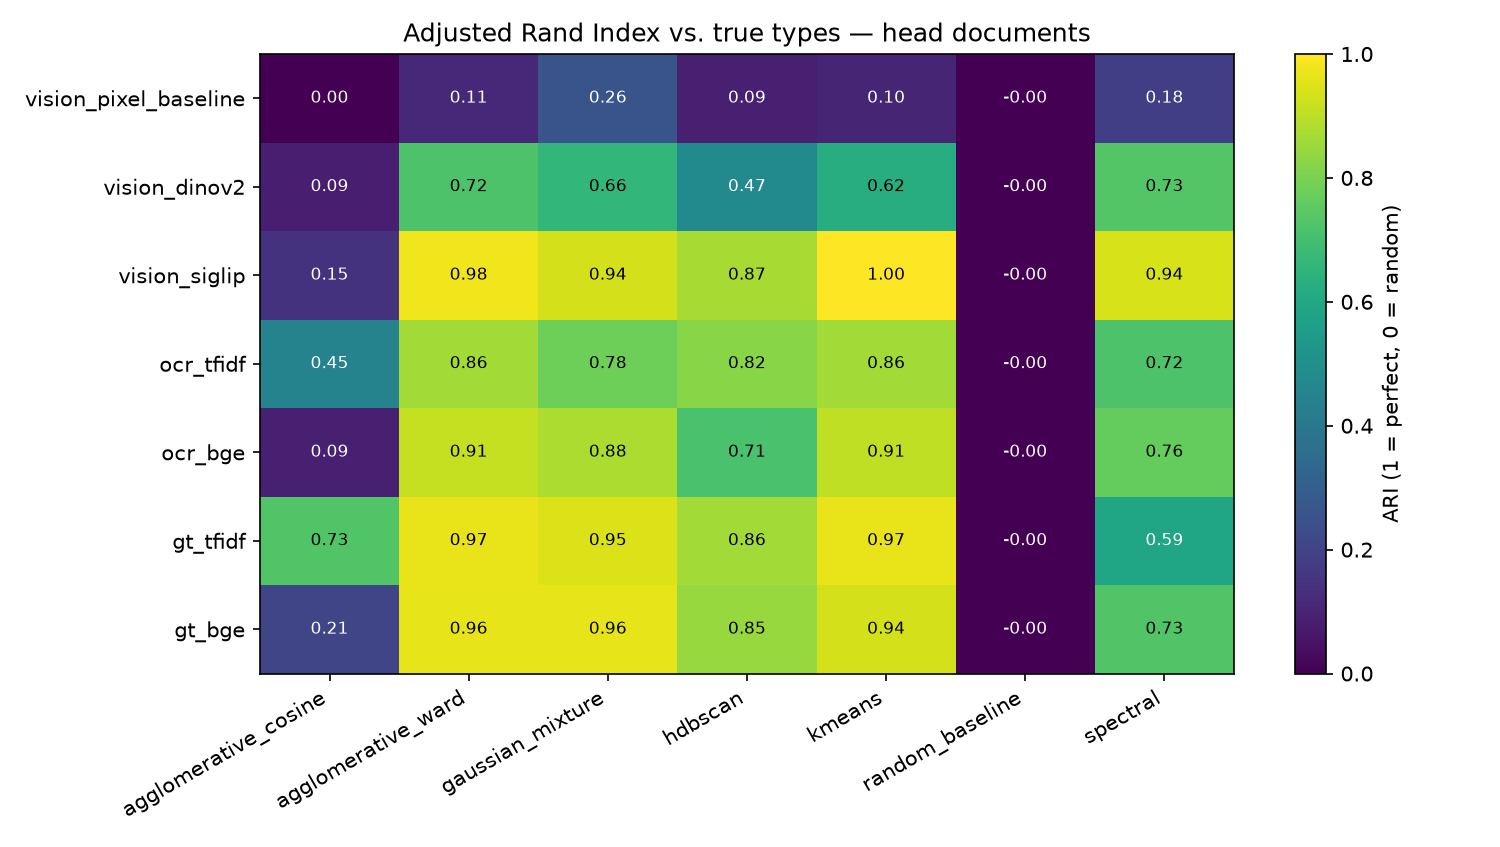
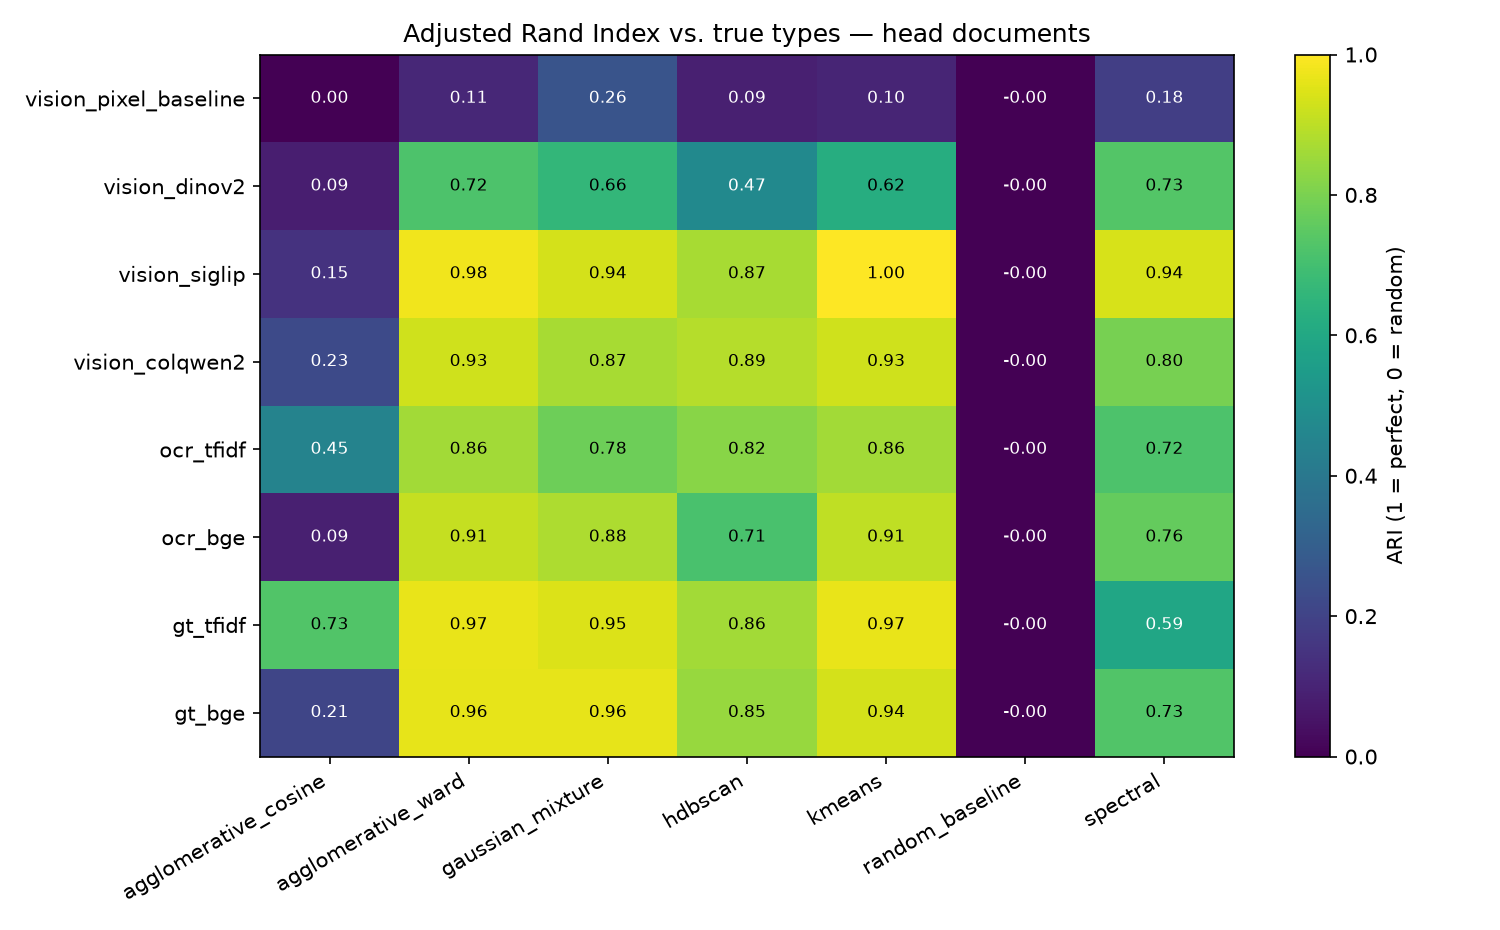
Add ColQwen2 results to the embedding comparison
ColQwen2 (mean-pooled) reaches ARI 0.93 on 18 types (SigLIP 1.00, OCR+bge
0.91), has the highest true-label silhouette of any channel (0.62), and,
like the OCR text channel, flags none of the 4 in-scope legal photos.
Updated docs/embedding_comparison.md and the recommendation for issue #6.

diff --git a/docs/embedding_comparison.md b/docs/embedding_comparison.md
@@ -18,7 +18,7 @@ python -m analysis.out_of_scope        # results/out_of_scope_*.csv
 | `vision_pixel_baseline` | vision | 32×32 grayscale thumbnail. No model; sets the floor |
 | `vision_dinov2` | vision | `facebook/dinov2-large`, CLS token |
 | `vision_siglip` | vision | `google/siglip-so400m-patch14-384`, pooled embedding (the vision tower of ColPali) |
-| `vision_colqwen2` | vision | `vidore/colqwen2-v1.0-hf`, mean of patch vectors. **Results pending; see below** |
+| `vision_colqwen2` | vision | `vidore/colqwen2-v1.0-hf`, mean of patch vectors (a document-retrieval model that reads text in the image) |
 | `ocr_tfidf`, `ocr_bge` | OCR text | Tesseract text, then TF-IDF/SVD or `BAAI/bge-base-en-v1.5` |
 | `gt_tfidf`, `gt_bge` | clean text | The same encoders on the ground-truth transcription. An upper bound, not available in production |
 
@@ -32,7 +32,8 @@ Adjusted Rand Index (ARI) against the true type, all 925 head-class documents (1
 |---|---|---|---|---|---|---|
 | Pixel baseline | 0.10 | 0.11 | 0.26 | 0.18 | 0.09 | 0.00 |
 | DINOv2 | 0.62 | 0.72 | 0.66 | 0.73 | 0.47 | 0.09 |
-| **SigLIP** | **1.00** | **0.98** | 0.94 | **0.94** | **0.87** | 0.15 |
+| **SigLIP** | **1.00** | **0.98** | 0.94 | **0.94** | 0.87 | 0.15 |
+| ColQwen2 | 0.93 | 0.93 | 0.87 | 0.80 | **0.89** | 0.23 |
 | OCR + TF-IDF | 0.86 | 0.86 | 0.78 | 0.72 | 0.82 | 0.45 |
 | OCR + bge | 0.91 | 0.91 | 0.88 | 0.76 | 0.71 | 0.09 |
 | Clean text + TF-IDF | 0.97 | 0.97 | 0.95 | 0.59 | 0.86 | 0.73 |
@@ -45,10 +46,10 @@ Random baseline (20 seeds): ARI 0.00 everywhere.
 **On the 5 legal types only** (264 documents), every learned channel reaches ARI 0.98–1.00 with k-means, and the pixel baseline gets 0.33. The legal types in this benchmark each follow one template, so they're too easy to rank channels on. That's why the 18-type result is the one to use for the vision-vs-text decision. See `results/figures/clustering_ari_legal.png` and `results/figures/tsne_legal.png`.
 
 **What this means:**
-- **Vision beats OCR text when the vision model is right.** SigLIP + k-means scores 1.00 vs. 0.91 for OCR + bge. DINOv2, a vision model trained without text, scores only 0.62, below both text channels.
+- **Vision beats OCR text when the vision model is right.** SigLIP + k-means scores 1.00 and ColQwen2 0.93, vs. 0.91 for OCR + bge. DINOv2, a vision model trained without text, scores only 0.62, below both text channels.
 - **Most of the text channel's gap is OCR error.** The same encoders on clean text reach 0.94–0.97. Better OCR would narrow the gap.
 - **The algorithm matters about as much as the channel.** k-means and Ward are the best or near-best on every channel. Average-linkage cosine fails on almost everything: OCR + bge scores 0.09 with it and 0.91 with Ward. Always compare channels with the same algorithm.
-- **Embedding quality without any algorithm** (silhouette of the true labels, cosine, 18 types): clean TF-IDF 0.59, SigLIP 0.54, OCR TF-IDF 0.53, clean bge 0.52, OCR bge 0.41, DINOv2 0.38, pixel −0.02.
+- **Embedding quality without any algorithm** (silhouette of the true labels, cosine, 18 types): **ColQwen2 0.62**, clean TF-IDF 0.59, SigLIP 0.54, OCR TF-IDF 0.53, clean bge 0.52, OCR bge 0.41, DINOv2 0.38, pixel −0.02. ColQwen2 puts same-type documents closest together, even though k-means recovers SigLIP's groups more exactly. On the 5 legal types its silhouette is 0.82, the highest of any channel.
 
 ## 2. Out-of-scope detection: easy on this data, but vision partly learned "photo"
 
@@ -59,20 +60,21 @@ Detector: a document's score is 1 minus its mean cosine similarity to its 5 near
 | Pixel baseline | 0.79 | 0.87 | 0.93 | 0.97 | 4 |
 | DINOv2 | 1.00 | 1.00 | 1.00 | 1.00 | **4** |
 | SigLIP | 1.00 | 1.00 | 0.97 | 1.00 | **2** |
+| ColQwen2 | 1.00 | 1.00 | 1.00 | 0.97 | **0** |
 | OCR + TF-IDF | 1.00 | 0.99 | 1.00 | 0.97 | 1 |
 | OCR + bge | 1.00 | 1.00 | 1.00 | 0.99 | **0** |
 | Clean text + bge | 1.00 | 1.00 | 1.00 | 1.00 | 0 |
 
 The **legal-adjacent** types (account statements, credit cards, Form 1040) are flagged with ROC-AUC 1.00 by every learned channel. The pixel baseline only reaches 0.77 on them.
 
-**The photo check matters.** All 4 in-scope PHOTO documents (ids 32, 65, 135, 760) are in train, so they're scored leave-self-out. DINOv2 flags all 4 as out of scope, and SigLIP flags 2. The vision detectors partly learned "this is a photo" rather than "this is not a legal type," which is the confound the scope policy predicted, since all 75 tail documents are photos. The OCR + bge detector flags none of them. With only 4 examples this is a warning sign, not a measurement, but a real intake queue will receive phone photos of leases.
+**The photo check matters.** All 4 in-scope PHOTO documents (ids 32, 65, 135, 760) are in train, so they're scored leave-self-out. DINOv2 flags all 4 as out of scope, and SigLIP flags 2. Those two vision detectors partly learned "this is a photo" rather than "this is not a legal type," which is the confound the scope policy predicted, since all 75 tail documents are photos. The OCR + bge detector flags none of them, and neither does ColQwen2, the vision model trained to read document text. With only 4 examples this is a warning sign, not a measurement, but a real intake queue will receive phone photos of leases.
 
 ## Recommendation for issue #6
 
 - **For classification and clustering, use SigLIP.** It has the highest ARI and NMI on 18 types, and it's fast (~4 min for 1,000 pages on a laptop).
-- **For out-of-scope detection, keep a text channel.** Either OCR + bge alone or combined with SigLIP. Every learned channel separates the types, but only the text channel ignores capture style.
+- **For out-of-scope detection, use ColQwen2 or OCR + bge.** Every learned channel separates the types, but only these two ignore capture style. ColQwen2 does it without an OCR step, at about 25 minutes per 1,000 pages on a laptop GPU vs. about 4 for SigLIP.
+- **Worth testing in October:** SigLIP for the classifier and ColQwen2 for the detector, compared against a single-channel setup.
 - **Don't rank channels on the 5 legal types alone.** All of them saturate there.
-- **ColQwen2 is still to be added.** It runs through the same scripts. Re-run `python -m analysis.clustering` and `python -m analysis.out_of_scope` after `cache/embeddings/vision_colqwen2.npy` exists, and update this page.
 
 ## Caveats
 
